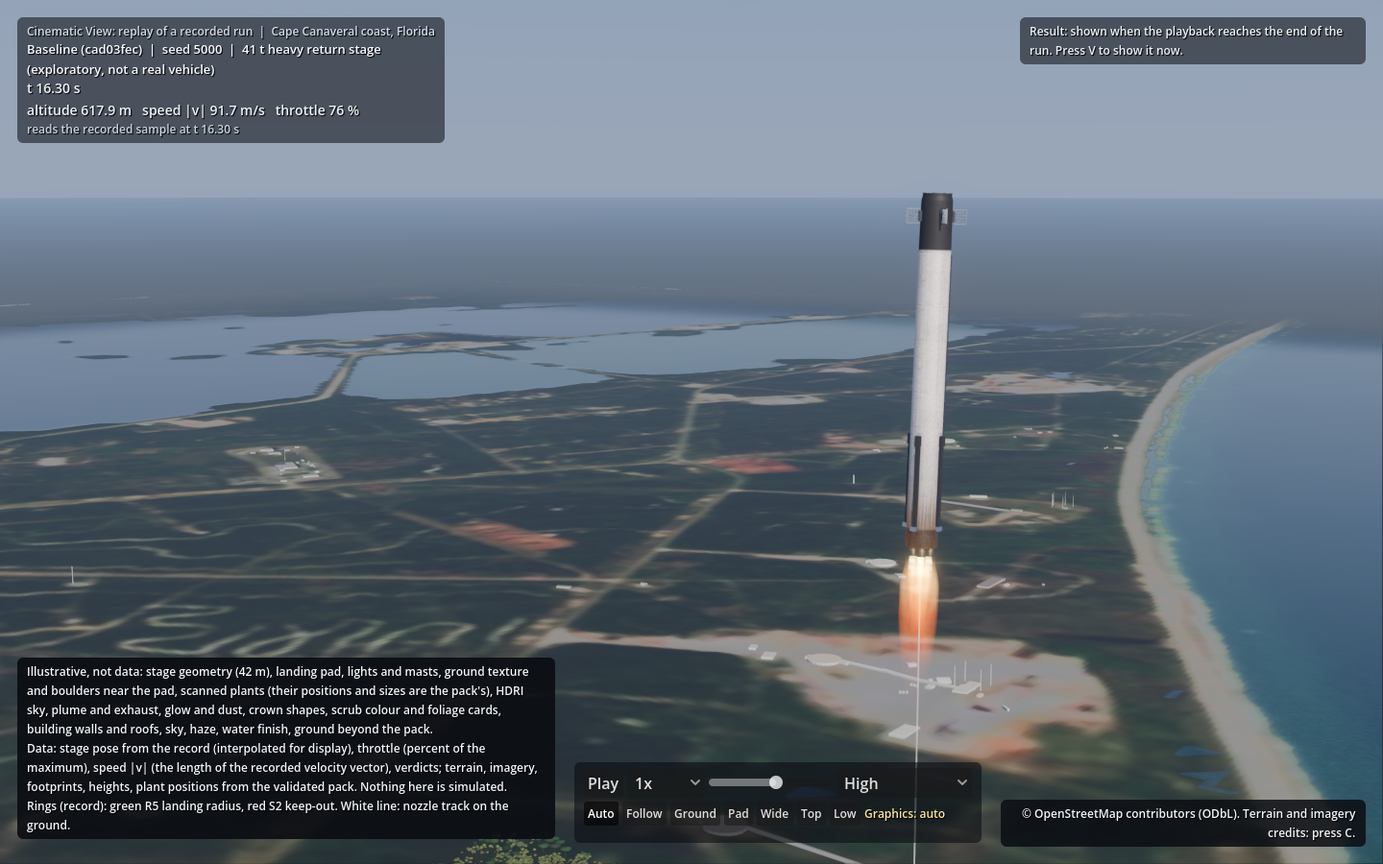
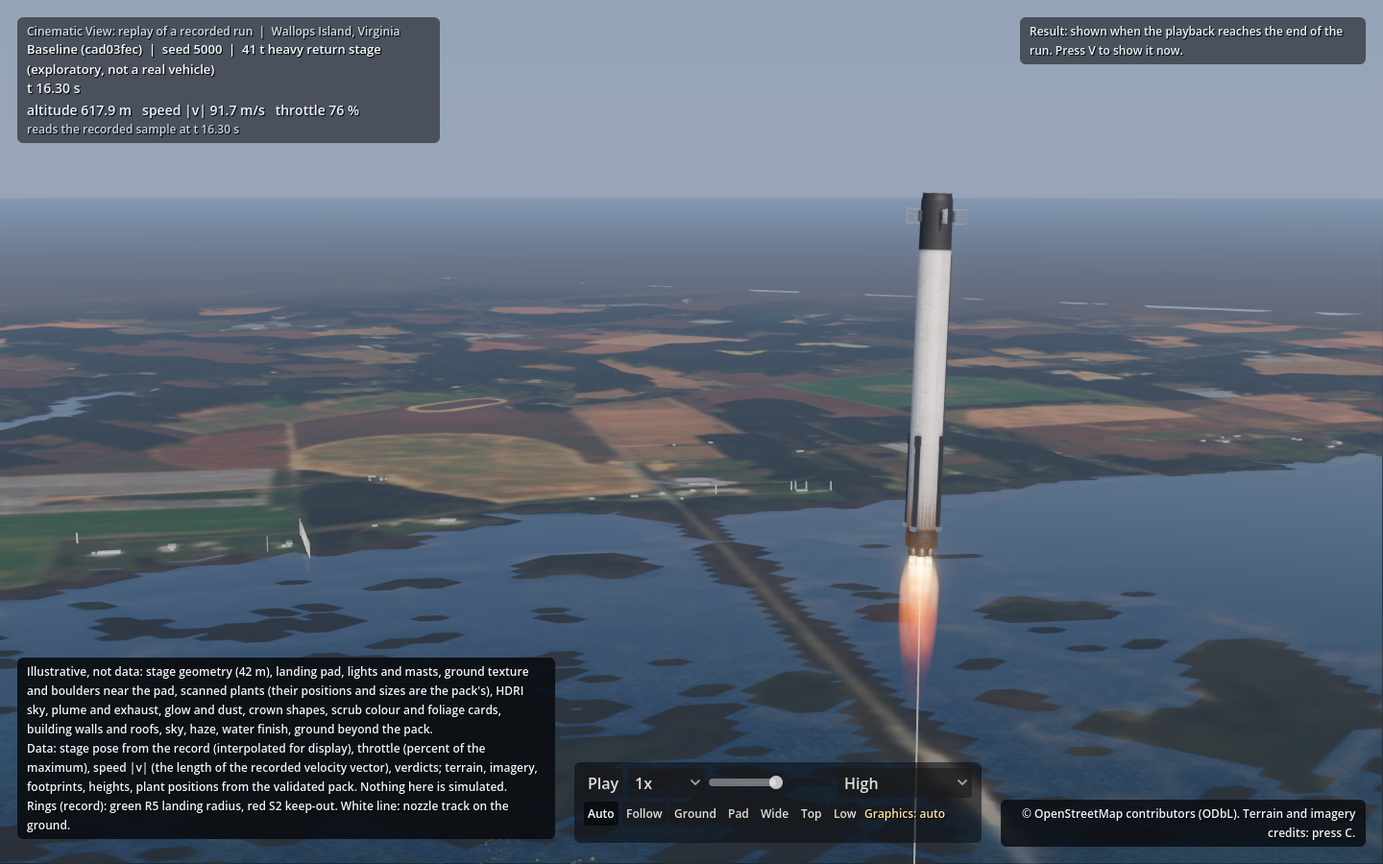
docs: installed 0.18.1 evidence for the final installer (UX pass), module 0.2.3, 81 UX checks, frame-cadence control
Claude-Session: https://claude.ai/code/session_011CgDRkkk7WgqzPqu97bPuD

diff --git a/docs/evidence/m18/installed-0.18.1/README.md b/docs/evidence/m18/installed-0.18.1/README.md
@@ -12,15 +12,15 @@ AMD Ryzen 7 7800X3D (8 núcleos, 16 fios), 31,7 GB de RAM, AMD Radeon RX 7700 XT
 
 | Artefacto | Tamanho | SHA-256 |
 | --- | --- | --- |
[3 lines of base64/hex data omitted]
 
-O instalador foi construído com `desktop/build.ps1` (compilação de lançamento completa): **código de saída 0**, capturado pelo invólucro que o executou (`BUILD EXIT 0`). Como o 0.18.1 ainda não foi publicado fora deste PC, o número de versão ficou e os instaladores anteriores deste número foram guardados na pasta de recuperação com nomes que dizem o que são: `VV Lab Studio_0.18.1_x64-setup-prebuild.exe` (a primeira versão, `b0c2cf41...`) e `VV Lab Studio_0.18.1_x64-setup-before-ux-pass.exe` (a que tinha o estado «Opening...» mas ainda não as correções de interface, `953c3f13...`). `SHA256SUMS.txt` (esta pasta) resume os hashes relevantes; a lista completa está na pasta de recuperação do proprietário, e os oito instaladores ali foram verificados contra ela.
+O instalador foi construído com `desktop/build.ps1` (compilação de lançamento completa): **código de saída 0**, capturado pelo invólucro que o executou (`BUILD EXIT 0`). Como o 0.18.1 ainda não foi publicado fora deste PC, o número de versão ficou e os instaladores anteriores deste número foram guardados na pasta de recuperação com nomes que dizem o que são: `...-setup-prebuild.exe` (a primeira versão), `...-setup-before-ux-pass.exe` (com o estado «Opening...», sem as correções de interface) e `...-setup-ux-pass-1.exe`, `-ux-pass-2.exe` e `-ux-pass-3.exe` (as três iterações das correções de interface; a 3 só difere da instalada por uma regra de CSS que a verificação seguinte encontrou como falhada e que foi corrigida). `SHA256SUMS.txt` (esta pasta) resume os hashes relevantes; a lista completa está na pasta de recuperação do proprietário, e os onze ficheiros ali foram verificados contra ela.
 
 ## Instalação
 
 - Antes da primeira instalação, o hash do instalador de recuperação 0.17.0 foi confirmado contra o `SHA256SUMS.txt`.
-- O 0.18.1 foi instalado por cima do 0.17.0 e, depois, duas vezes por cima de si próprio à medida que o instalador mudou (primeira versão, versão com o estado «Opening...», versão final), sempre com `/S`: código de saída 0; a chave `HKCU\Software\Microsoft\Windows\CurrentVersion\Uninstall\VV Lab Studio` ficou com `DisplayVersion` 0.18.1 e o executável instalado declara a versão 0.18.1.
+- O 0.18.1 foi instalado por cima do 0.17.0 e, depois, várias vezes por cima de si próprio à medida que o instalador mudou (seis instaladores até ao final), sempre com `/S`: código de saída 0; a chave `HKCU\Software\Microsoft\Windows\CurrentVersion\Uninstall\VV Lab Studio` ficou com `DisplayVersion` 0.18.1 e o executável instalado declara a versão 0.18.1.
 - Biblioteca do utilizador (`Documentos\VV Lab Library`): 11 corridas antes e depois de todas as instalações e de todos os percursos, mesma lista de identificadores, e o SHA-256 da lista ordenada dos 89 ficheiros da biblioteca é idêntico ao de antes da primeira instalação.
 - Módulo Cinematic: instalado pelo teste opcional `real_module_zip_installs_when_given` de `desktop/studio/src/modules.rs` (`VV_CINEMATIC_ZIP`, `VV_CINEMATIC_INSTALL_TO` a apontar para a pasta real de módulos), porque o diálogo nativo não é automatizável. Substituiu as versões anteriores; o Studio instalado lê `installed: true, verified: true, version: 0.2.3`.
 - O percurso `m17_cinematic_journey.py` desinstala o módulo no fim; por isso o módulo é reinstalado da mesma forma depois dele. No fim de tudo, o módulo 0.2.3 está instalado e verificado e não ficou nenhum processo do Studio nem do Godot.
@@ -34,10 +34,10 @@ O instalador foi construído com `desktop/build.ps1` (compilação de lançament
 | `m17_lab_journeys.py` (porta 9273) | 34/34 | `m17-lab-journeys.txt` |
 | `m17_cinematic_journey.py --preinstalled` | 11/11 | `m17-cinematic-journey.txt` |
 | `m18_journeys.py` | 72/72 | `m18-journeys.txt`, `m18-numbers.json` |
-| `installed_spotcheck.py` | 40/40 | `installed-spotcheck.txt`, `installed-spotcheck-facts.json` |
-| `ux_journeys.py` (novo) | 70/70 | `ux-journeys.txt`, `ux-facts.json` |
+| `installed_spotcheck.py` | 44/44 | `installed-spotcheck.txt`, `installed-spotcheck-facts.json` |
+| `ux_journeys.py` (novo) | 81/81 | `ux-journeys.txt`, `ux-facts.json` |
 
-Todos usam bibliotecas e configuração temporárias (`VVLAB_LIBRARY`, `VVLAB_CONFIG`), por isso não tocam na biblioteca do utilizador. Os caminhos temporários aparecem nos registos como `<temporary folder>`. Os mesmos percursos já tinham passado contra as versões anteriores do 0.18.1 (48, 78, 34, 11, 72 e 40), e o `ux_journeys.py` falhou 2 de 70 verificações na primeira execução contra o instalador final, por o teste esperar «Heavy return stage» quando o catálogo chama ao veículo «41 t heavy return stage» (o produto estava certo; o teste foi corrigido).
+Todos usam bibliotecas e configuração temporárias (`VVLAB_LIBRARY`, `VVLAB_CONFIG`), por isso não tocam na biblioteca do utilizador. Os caminhos temporários aparecem nos registos como `<temporary folder>`. `m15`, `m16` e `m17_lab` são da execução completa no instalador final; `m17_cinematic`, `m18`, o percurso de utilizador e o `ux_journeys.py` são de uma repetição feita depois de reinstalar o módulo (a execução completa anterior correu com o módulo desinstalado, porque o percurso `m17_cinematic` o desinstala no fim e eu não o reinstalei: os três percursos que o usam falharam por isso, 23/25, 60/61 e 1/3, e o `m18` deu 71/71 por saltar a parte da Cinematic View).
 
 **Uma falha encontrada e corrigida (teste, não produto).** Na primeira execução com o módulo 0.2.0, `m17_cinematic_journey.py` deu 8/9: a verificação «o módulo desenhou o primeiro frame» falhou porque o percurso lia o registo do Godot após uma espera fixa de 12 s e o primeiro frame chega 12 a 16 s depois do clique. O processo estava a arrancar com Direct3D 12 sem erros; o percurso passou a esperar pela linha `FIRST_FRAME` (até 90 s) e a ignorar registos anteriores ao clique.
 
@@ -54,22 +54,30 @@ Uma revisão independente das capturas do 0.18.1 instalado (veredicto «boa, com
 
 | Ponto da revisão | O que o percurso verifica |
 | --- | --- |
-| Segurança sem «safe» sozinho | Compare (legenda das corridas e linha «Safety rules»), Lab, Library, vista de execução e leitor dizem «No safety rule broken (5 checked)»; uma nota diz que a velocidade de contacto é um requisito da missão e que um aterrar duro falha um requisito sem quebrar uma regra de segurança |
-| Duas corridas lêem-se como diferentes | cabeçalho «Largest change: Vertical speed at contact 1.658 → 60.08 m/s (limit <= 3 m/s)» em Compare e no Lab; cada célula tem valor observado e margem, e a linha tem o limite; «9 rows differ ... 1 in its verdict, the others in a value»; linhas que falham primeiro; 4 algarismos significativos com o valor completo na dica; inclinação em graus; nomes de requisitos repetidos da subida distinguidos pelo andar |
+| Segurança sem «safe» sozinho | Compare (legenda das corridas e linha «Safety rules»), Lab (as duas etiquetas de veredicto), Library (coluna), vista de execução e leitor dizem «No safety rule broken» (com «(5 checked)» onde há contagem); uma nota diz que a velocidade de contacto é um requisito da missão e que um aterrar duro falha um requisito sem quebrar uma regra de segurança |
+| Duas corridas lêem-se como diferentes | cabeçalho «Largest change: Vertical speed at contact 1.658 → 60.08 m/s (limit <= 3 m/s)» em Compare e no Lab; cada célula tem valor observado e margem, e a linha tem o limite; «9 rows differ ... 1 in its verdict, the others in a value»; linhas que falham primeiro; 4 algarismos significativos com o valor completo na dica; inclinação em graus; nomes de requisitos repetidos da subida distinguidos pelo andar; na subida, a linha da apoapsis mostra a leitura publicada («1.903 km», limite «<= 15 km») e não a altitude da apoapsis |
 | Cartão do leitor | «Not met: Horizontal speed at contact 1.584 m/s (limit <= 1 m/s); impact not modelled» na corrida de base e «Not met: Vertical speed at contact 60.08 m/s (limit <= 3 m/s), and 1 more not met; impact not modelled» na experiência |
 | Cinematic View | com duas corridas o leitor deixa escolher qual abre (cada uma foi aberta: o `--run` da linha de comandos do processo é o identificador escolhido); o processo recebe `--run-label`, `--vehicle`, `--seed 5000` e `--exploratory`; o `--env` é o do ambiente que o leitor tinha (Wallops Island) nas duas corridas |
 | Texto | declaração «Exploratory models, not real vehicles; nothing is validated against flight data.» em Mission Control e no hangar; sem «validated offline»; «recomputed model behaviour»; uma só etiqueta «Open in Experiment Lab» no hangar, no leitor e na vista de execução |
 | Navegação a 820 px | sem barra de deslocamento; Configure, Analyse, Compare e Records no menu «More»; Enter abre, as setas e End movem, Escape fecha e devolve o foco, Enter em «Records» abre a Library; a 1440 px o menu não aparece |
 | Lab | «Run experiment» visível desde o início, desligado com «Change one condition first» (descrito por `aria-describedby`); a coluna das condições sem deslocamento próprio; botões de sementes desligados com «Run an experiment first.» |
-| Ambientes | 8 descrições sem corte, «Terrain is context only» em cada cartão, estado do módulo resolvido (ver o registo para o tempo) |
-| Uma cor para Exploratory | o chip do Lab e o do hangar têm a mesma cor calculada; o leitor mostra «Reference case» ou «Exploratory» por corrida |
-| 1024x640 e tamanho do texto | atribuição e barra de câmaras sem sobreposição na vista geoespacial; nenhum texto abaixo de 12 px em Mission Control, hangar, ambientes, Lab, Compare, leitor e leitor a 1024x640 |
+| Ambientes | 8 descrições sem corte, «Terrain is context only» em cada cartão, estado do módulo resolvido |
+| Uma cor para Exploratory | o chip do Lab e o do hangar têm a mesma cor calculada; o leitor mostra «Reference case» ou «Exploratory» por corrida e o primeiro aterrar registado mostra «Reference case» |
+| Tamanhos estreitos e tamanho do texto | a 1024x640 e a 820 px, no leitor de engenharia com duas corridas, a nota da cena não se sobrepõe à barra de câmaras nem às etiquetas das corridas; a 1024x640, na consola de voo, a atribuição não se sobrepõe à barra de câmaras, os nomes dos requisitos quebram linha e o título e as ferramentas não são empurrados; na vista geoespacial a atribuição e a barra de câmaras não se sobrepõem; nenhum texto abaixo de 12 px em Mission Control, hangar, ambientes, Lab, Compare, leitor, vista de execução e leitor a 1024x640 |
 
-**Sobre o ambiente da Cinematic View.** A revisão viu «Cape» na Cinematic View e «Wallops» no leitor. Não consegui reproduzir a diferença: nas duas corridas abertas o `--env` do processo era `wallops-island`, o ambiente escolhido em Environments e mantido pelo leitor. O percurso fica a verificar isto; se a diferença voltar, o primeiro suspeito é um leitor aberto antes de o ambiente ser escolhido, que usa o valor por omissão (Cape) até a preferência ser lida.
+**Defeitos que a primeira versão desta passagem tinha e que a verificação ou a leitura das capturas encontrou antes do fecho.**
+
+1. Na subida, as células do Lab misturavam o primeiro número do texto observado com o limite e a margem publicados: a linha da apoapsis mostrava «301.9 km» contra «<= 15 km» com margem «+13.1 km». Passou a ler a leitura observada que o domínio publica, e o sentido do limite deduz-se da margem. Verificado no instalador final.
+2. O cartão de fim de aterragem, agora uma frase, esmagava o título e empurrava as ferramentas para fora da janela na consola de voo a 1024x640 (duas iterações: primeiro sobrepunha o título, depois ficava 5 px fora da janela).
+3. A atribuição da consola de voo a 1024x640 passava por baixo da barra de câmaras; e a nota da cena de engenharia ficava por baixo das etiquetas das corridas a 820 px.
+4. `safetyWording` podia escrever «1 of N safety rules broken» sem nenhuma linha de invariante falhada; a contagem só aparece agora quando as linhas do próprio registo a dão.
+5. O rótulo dos gráficos do módulo ficava cortado («Graphics: High (Auto: 12.9 GE») e o rótulo da corrida com «×» aparecia estragado na captura de revisão (era a leitura da linha de comandos pelo teste; o Studio passa o texto certo).
+
+**Sobre o ambiente da Cinematic View.** A revisão viu «Cape» na Cinematic View e «Wallops» no leitor. Não consegui reproduzir a diferença no produto: nas duas corridas abertas o `--env` do processo era `wallops-island`, o ambiente escolhido em Environments e mantido pelo leitor. Uma explicação possível, **não confirmada**: o percurso `installed_spotcheck.py` não escolhia nenhum ambiente, por isso as suas imagens da Cinematic View usavam o ambiente por omissão (Cape) enquanto as capturas do leitor do `m18` e do `ux_journeys.py` eram de Wallops. O percurso de utilizador escolhe agora Wallops antes de abrir a Cinematic View, e as imagens `cinematic-landing.png` e `cinematic-ascent.png` são de Wallops; `ux_journeys.py` verifica o `--env` de cada abertura.
 
 Na vista da Cinematic View (módulo 0.2.3, `cinematic/cinematic-hud-experiment.png`, desenhada pelo módulo com os argumentos que o Studio lhe passou): linha da corrida («Engine thrust 0.7 × (9e6edb2e) | seed 5000 | 41 t heavy return stage (exploratory, not a real vehicle)»), «altitude», «speed |v|» (o comprimento do vetor de velocidade gravado), acelerador em percentagem, a linha «reads the recorded sample at t» mais discreta, e «Graphics: auto» sem corte (a razão completa fica na dica). Não se verificou a dica com o rato.
 
-**Não verificado.** O contraste das sobreposições sobre imagens (atribuições) não foi medido; só as razões de luminância dos cinzentos de apoio sobre os fundos dos painéis (5,7:1 ou mais no tema escuro, calculadas dos tokens). Os botões e menus não foram observados com tecnologia de apoio. Para a re-revisão guardaram-se, fora do repositório, capturas novas dos mesmos ecrãs da revisão (Mission Control, hangar, ambientes, Lab antes e depois da corrida, Compare, leitor, leitor geoespacial a 1024x640, navegação a 820 px com o menu aberto).
+**Não verificado.** O contraste das sobreposições sobre imagens não foi medido; só as razões de luminância dos cinzentos de apoio sobre os fundos dos painéis (5,7:1 ou mais no tema escuro, calculadas dos tokens), e as atribuições do Studio passaram a ter fundo quase opaco (94 %) e a cor de texto forte, sem medição. Os botões e menus não foram observados com tecnologia de apoio. O cartão de resultado do leitor e a vista Analyse continuam a mostrar o cosseno da inclinação com a precisão total (só o Lab e Compare mostram graus). Para a re-revisão guardaram-se, fora do repositório, capturas novas dos mesmos ecrãs da revisão.
 
 ## Percurso de utilizador no Studio instalado
 
@@ -77,41 +85,41 @@ Na vista da Cinematic View (módulo 0.2.3, `cinematic/cinematic-hud-experiment.p
 
 - Aterragem (semente 5000, controlador robusto): velocidade vertical no contacto 1,66 m/s (passa) contra 60,08 m/s (falha) com o impulso × 0,7; em Compare as etiquetas diferem («Engine thrust 1 × (default)» e «Engine thrust 0.7 ×») e nenhuma está truncada.
 - Subida: a carga útil de 600 kg passa a corrida de «Orbit» para «Suborbital» (R4, R6 e R8 falham); o Lab mostra margens numéricas (por exemplo «-329 Pa» na pressão dinâmica máxima) e nenhum requisito com números mostra a margem vazia. As margens numéricas foram verificadas na tabela do Lab.
-- Cinematic View, nos dois casos: o Studio iniciou o processo `Godot_v4.7.2-stable_win64.exe` com `--rendering-driver d3d12` (linha de comandos lida ao sistema operativo), o registo do módulo diz `D3D12 12_0 - Forward+ - AMD Radeon RX 7700 XT` sem `ERROR`, e a linha `FIRST_FRAME` apareceu 14,7 s (aterragem) e 12,6 s (subida) depois do clique (perfil Auto, que escolheu High).
-- O Studio não passa `--shot` ao módulo. As imagens `cinematic/cinematic-landing.png` e `cinematic-ascent.png` vêm de uma segunda execução, separada, do módulo instalado com os mesmos argumentos lidos do processo iniciado pelo Studio, `--t` a 55 % da duração do registo e `--shot`. Mostram só a cena do módulo.
+- Cinematic View, nos dois casos: o Studio iniciou o processo `Godot_v4.7.2-stable_win64.exe` com `--rendering-driver d3d12` (linha de comandos lida ao sistema operativo), o registo do módulo diz `D3D12 12_0 - Forward+ - AMD Radeon RX 7700 XT` sem `ERROR`, e a linha `FIRST_FRAME` apareceu 14,2 s (aterragem) e 12,1 s (subida) depois do clique (perfil Auto, que escolheu High).
+- O Studio não passa `--shot` ao módulo. As imagens `cinematic/cinematic-landing.png` e `cinematic-ascent.png` (ambiente Wallops Island, escolhido pelo percurso) vêm de uma segunda execução, separada, do módulo instalado com os mesmos argumentos lidos do processo iniciado pelo Studio, `--t` a 55 % da duração do registo e `--shot`. Mostram só a cena do módulo.
 
 ## Desempenho (Direct3D 12 / WebView2)
 
-Medido fora da simulação, no instalador final e no módulo 0.2.3; o `perf_probe` correu duas vezes (`perf/perf-m16.json` e `perf/perf-m16-second.json`), o `bench.py` uma.
+Medido fora da simulação, no instalador final e no módulo 0.2.3, uma execução de cada.
 
-Vista geoespacial e leitor, `python desktop/studio/tests/perf_probe.py --exe "%LOCALAPPDATA%\VV Lab Studio\vv-studio.exe" --flow m16` (janela 1440x900, biblioteca temporária):
+Vista geoespacial e leitor, `python desktop/studio/tests/perf_probe.py --exe "%LOCALAPPDATA%\VV Lab Studio\vv-studio.exe" --flow m16` (janela 1440x900, biblioteca temporária; `perf/perf-m16.json`):
 
-| Medida | 1.ª execução | 2.ª execução |
-| --- | --- | --- |
-| Arranque a frio até ao ecrã pronto | 0,94 s | 0,97 s |
-| Clique até à aterragem no ecrã | 0,26 s | 0,29 s |
-| Passagem à vista geoespacial até ao terreno na GPU | 0,469 s | 0,478 s |
-| Frames em reprodução (engenharia / geoespacial / Flight console) | p50 17,7 a 18,0 ms; p99 18,7 a 19,0 ms; nenhum acima de 33 ms | p50 17,9 a 18,0 ms; p99 18,6 a 18,8 ms; nenhum acima de 33 ms |
-| CPU em reprodução (de um núcleo) | 30 % / 36 % / 3 % | 24 % / 37 % / 29 % |
-| Memória (working set) em reprodução geoespacial | 862 MB; 649 MB depois de sair do leitor | 852 MB |
-| Sessão de 180 s, p99 dos frames | 18,5 a 19,0 ms; working set de 1024 para 881 MB | 18,6 a 19,1 ms; de 933 para 907 MB |
-| GPU dedicada, utilização 3D na vista geoespacial | 461 MB, 24,3 % | 464 MB, 24,8 % |
-| Pedidos da WebView a fora da máquina | nenhum | nenhum |
+| Medida | Valor |
+| --- | --- |
+| Arranque a frio até ao ecrã pronto | 0,95 s |
+| Clique até à aterragem no ecrã | 0,29 s |
+| Passagem à vista geoespacial até ao terreno na GPU | 0,462 s |
+| Frames em reprodução (engenharia / geoespacial / Flight console) | p50 17,7 / 17,9 / 18,0 ms; p99 18,9 / 18,7 / 18,9 ms; nenhum acima de 33 ms |
+| CPU em reprodução (de um núcleo) | 20 % / 37 % / 6 % |
+| Memória (working set) em reprodução geoespacial | 860 MB; 646 MB depois de sair do leitor |
+| Sessão de 180 s, p99 dos frames | 18,5 a 19,0 ms; working set de 924 para 883 MB |
+| GPU dedicada, utilização 3D na vista geoespacial | 463 MB, 24,4 % |
+| Pedidos da WebView a fora da máquina | nenhum |
 
-**A cadência dos frames mudou desde a verificação anterior** (8,0 ms, cerca de 125 Hz, na execução de 12 de novembro; agora 18 ms, cerca de 55 Hz, nas duas execuções de hoje, também com a janela parada: o `idle_frames` está nos 18 ms). O controlador continua a indicar 165 Hz para o ecrã. A causa não foi investigada (suspeita-se do ritmo do compositor ou do modo do ecrã, não do Studio, que não mudou o desenho), por isso nenhum destes números mede a capacidade máxima de desenho e as duas séries não são comparáveis entre si. A vista geoespacial gastou menos CPU (36 % contra 52 a 73 % da série anterior), mas isso também pode ser só a cadência.
+**A cadência dos frames é de cerca de 18 ms (55 Hz), contra 8 ms (125 Hz) na verificação de 12 de novembro, e o Studio não é a causa.** Como controlo, `perf/raf-control.json` mede `requestAnimationFrame` na mesma janela do Studio: na página inicial parada p50 18,0 ms (p99 18,9) e numa página em branco (`data:text/html`) carregada nessa janela p50 18,0 ms (p99 19,0). Uma página vazia tem o mesmo ritmo, por isso o ritmo é o da janela ou do compositor nesta sessão e não do desenho do Studio; o controlador continua a indicar 165 Hz para o ecrã. Porque mudou entre duas sessões, não foi investigado e nenhum destes números mede a capacidade máxima de desenho, as séries de dias diferentes não são comparáveis entre si.
 
 Cinematic View, módulo instalado, `python scripts/cinematic/bench.py --godot <Godot_v4.7.2-stable_win64_console.exe do módulo> --project <project do módulo> --run tests/fixtures/cinematic/landing-run --env <environments/cape-canaveral instalado> --out <pasta> --profiles auto,balanced --seconds 12 --driver d3d12` (1440x900, sem sincronização vertical, câmara Auto; `perf/bench-*.json`, `perf/summary.json`):
 
 | Perfil | Arranque até ao primeiro frame | Frame p50 | Frame p99 | Memória de vídeo | Working set (pico) | Bytes privados (pico) |
 | --- | --- | --- | --- | --- | --- | --- |
-| Auto (escolheu High) | 14,1 s | 3,25 ms | 13,64 ms | 2385 MB | 746 MB | 3065 MB |
-| Balanced | 12,2 s | 1,94 ms | 5,36 ms | 1335 MB | 714 MB | 1872 MB |
+| Auto (escolheu High) | 13,7 s | 3,19 ms | 13,57 ms | 2385 MB | 745 MB | 3063 MB |
+| Balanced | 11,5 s | 1,91 ms | 5,36 ms | 1335 MB | 714 MB | 1871 MB |
 
-Os dois ficam dentro do orçamento de 16,7 ms (60 Hz) no p99; os valores são os do módulo anterior (14,9 s e 12,3 s; p99 13,58 e 5,39 ms) dentro do ruído de uma execução.
+Os dois ficam dentro do orçamento de 16,7 ms (60 Hz) no p99.
 
 ## Verificação do repositório
 
-Ver `verification.txt`: lista do `AGENTS.md` na raiz e em `desktop/`, testes Python com `VV_GODOT` definido (432 testes, 6 ignorados por dependências opcionais) e a campanha `--seeds 42,1337,2026`. A lista foi repetida na árvore da passagem de interface (`cargo fmt --check`, `clippy -D warnings`, `cargo test` na raiz e em `desktop/`, e `unittest`); a campanha e a compilação de lançamento da raiz não foram repetidas depois de a passagem tocar só em interface, módulo, testes e documentação (a raiz não mudou desde a verificação anterior).
+Ver `verification.txt`: lista do `AGENTS.md` na raiz e em `desktop/`, testes Python com `VV_GODOT` definido (432 testes, 6 ignorados por dependências opcionais) e a campanha `--seeds 42,1337,2026`. A lista foi repetida na árvore da passagem de interface; depois das últimas alterações (CSS, `requirements.js`, testes, módulo) correram de novo `unittest` (432 testes, OK) e `cargo fmt --check` em `desktop/`. A campanha e a compilação de lançamento da raiz não foram repetidas porque a raiz não mudou. As edições de `ui_smoke.py` (o texto de segurança da vista de execução) **não foram executadas**: esse teste só corre no CI com o instalador e continua informativo lá.
 
 Comandos do README: `cargo run -- run ...` falhava porque o pacote da raiz tem três binários. Acrescentar `default-run = "vv-lab"` ao `Cargo.toml` da raiz resolve-o, mas muda o `source_sha256` do `vv-lab` (calculado a partir do `Cargo.toml`) e a paridade do problema D1 do benchmark M14 deixa de passar. Por isso os comandos do README, de `docs/reproducibility.md` e de `docs/m2-results.md` passaram a `cargo run --bin vv-lab -- ...` e o `Cargo.toml` ficou como estava.
 
@@ -121,9 +129,11 @@ Comandos do README: `cargo run -- run ...` falhava porque o pacote da raiz tem t
 - A reversão para o 0.17.0 não foi executada, só os hashes foram verificados. A compatibilidade do Studio 0.17.0 com o módulo 0.2.3 não foi testada.
 - Não se capturou a janela do processo iniciado pelo Studio (evitam-se capturas do ambiente de trabalho); as imagens da cena vêm de uma segunda execução do mesmo módulo com os mesmos argumentos.
 - A subida só foi medida no arranque; `bench.py` correu só sobre o registo de aterragem.
-- A causa da cadência de frames da WebView não foi investigada (ver o desempenho).
-- A lista do `AGENTS.md` foi repetida em parte depois das últimas alterações (ver acima).
-- A diferença de ambiente que a revisão viu na Cinematic View não foi reproduzida.
+- A diferença de ambiente que a revisão viu na Cinematic View não foi reproduzida (ver acima).
+- O contraste de texto sobre imagens, a dica do rótulo gráfico do módulo e o uso com tecnologia de apoio não foram verificados.
+- O cartão de resultado do leitor e a vista Analyse mostram ainda a inclinação como cosseno.
+- O contrato de `ui_smoke.py` foi atualizado mas não executado.
+- O módulo é 0.2.3 e não 0.2.2: cada correção do módulo (argumentos de apresentação, depois o rótulo gráfico cortado) pedia uma versão nova, e o 0.2.2 ficou só como intermédio.
 
 ## Recuperação (rollback)
 
@@ -135,6 +145,9 @@ Instaladores e hashes (os mesmos de `SHA256SUMS.txt`):
[8 lines of base64/hex data omitted]
 
 Para voltar ao 0.17.0: confirmar o hash com `Get-FileHash "<pasta de recuperação>\VV Lab Studio_0.17.0_x64-setup.exe" -Algorithm SHA256`, fechar o Studio e executar o instalador com `/S`. A biblioteca em `Documentos\VV Lab Library` e o módulo em `%LOCALAPPDATA%\org.vvlab.studio\modules\cinematic` não pertencem ao instalador e ficam como estão.

diff --git a/docs/m18-mission-control.md b/docs/m18-mission-control.md
@@ -7,7 +7,7 @@ Estado: o M18 está em `main` (Studio 0.18.0, instalador de 42,3 MB contra 19,7 
 ## O que mudou no produto
 
 1. **Mission Control** (`ui/js/views/home.js`): a página inicial passa a ter três caminhos com imagem própria: lançar e explorar uma missão, desenhar ou configurar um veículo, explorar ambientes e a Cinematic View. Mostra o que está instalado (missões, veículos, ambientes, domínios), o percurso de uma experiência em seis passos e as missões em destaque, com a subida a órbita em primeiro lugar.
-2. **Hangar de veículos** (`ui/js/views/vehicles.js`): todos os veículos dos domínios instalados, agrupados por papel (lançadores, andares de aterragem, robô terrestre), com nível de evidência ("Reference case", "Exploratory", "Illustrative"), atributos físicos, a missão que os usa e "Design and fly", que abre o Lab já com a corrida de base simulada e os parâmetros do veículo abertos. Tabela lado a lado por domínio.
+2. **Hangar de veículos** (`ui/js/views/vehicles.js`): todos os veículos dos domínios instalados, agrupados por papel (lançadores, andares de aterragem, robô terrestre), com nível de evidência ("Reference case", "Exploratory", "Illustrative"), atributos físicos, a missão que os usa e "Open in Experiment Lab" (antes "Design and fly" e "Configure and fly"), que abre o Lab já com a corrida de base simulada e os parâmetros do veículo abertos. Tabela lado a lado por domínio.
 3. **Ambientes** (`ui/js/views/atlas.js`): os oito pacotes validados como cartões com a imagem do próprio pacote, resolução, relevo, camada do mundo, tamanho e créditos curtos; "Use for missions" fixa o ambiente do leitor e "Land a rocket here" abre a missão nesse local. A secção Cinematic View diz se o módulo está instalado e verificado.
 4. **Os cinco pacotes do M17 vêm com o Studio** (commit `0699e66`): Wallops Island, península de Mahia, El Arenosillo, vale de Goms e Adventdalen. Validados pelo mesmo validador do Studio, 26,9 MB de ficheiros, `NOTICE.md` com as fontes e licenças dos oito. Ver `docs/m17-environments.md`.
 5. **Ver as corridas do Lab no leitor** (`views/player.js`, `views/lab.js`): "Watch both runs" toca a corrida de base e a experiência no leitor, com cena de engenharia, vista geoespacial, Mission Control e o botão da Cinematic View. O leitor volta a pedir os mesmos pedidos à plataforma, que reutiliza os registos guardados; não calcula nenhum voo.
@@ -53,7 +53,7 @@ Outras verificações, todas no Studio 0.18.0 compilado ou no repositório nesta
 
 ## Studio 0.18.1 instalado
 
-O instalador NSIS do 0.18.1 foi instalado em silêncio por cima do 0.17.0 (a biblioteca do utilizador ficou idêntica) e o módulo Cinematic 0.2.1 foi instalado pelo código de instalação do Studio. Contra o executável instalado: M15 48/48, M16 78/78, M17 Lab 34/34, M17 Cinematic 11/11, M18 72/72 e o percurso de utilizador `installed_spotcheck.py` 40/40 (Mission Control, hangar, «Design and fly», Compare, leitor e Cinematic View para uma aterragem e uma subida, com Direct3D 12). Desempenho, hashes, o que não foi verificado e as instruções de recuperação estão em [docs/evidence/m18/installed-0.18.1/README.md](evidence/m18/installed-0.18.1/README.md).
+O instalador NSIS do 0.18.1 foi instalado em silêncio por cima do 0.17.0 (a biblioteca do utilizador ficou idêntica) e o módulo Cinematic 0.2.3 foi instalado pelo código de instalação do Studio. Contra o executável instalado: M15 48/48, M16 78/78, M17 Lab 34/34, M17 Cinematic 11/11, M18 72/72, o percurso de utilizador `installed_spotcheck.py` 44/44 e `ux_journeys.py` 81/81 (Mission Control, hangar, «Open in Experiment Lab», Compare, leitor e Cinematic View para uma aterragem e uma subida, com Direct3D 12). Desempenho, hashes, o que não foi verificado e as instruções de recuperação estão em [docs/evidence/m18/installed-0.18.1/README.md](evidence/m18/installed-0.18.1/README.md).
 
 ### Revisão de interface do 0.18.1 e correções
 
